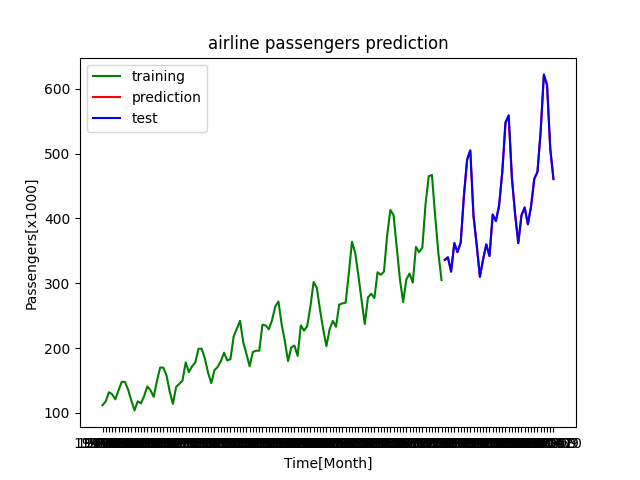
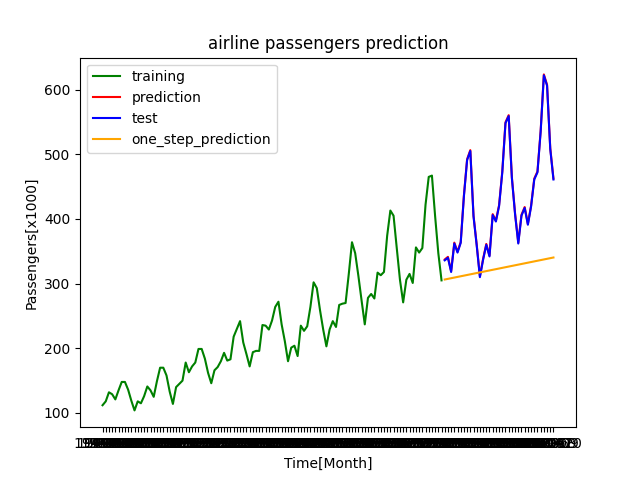
add one-step-ahead forecast

diff --git a/TimeSeriesPrediction/2_UnivariantTimeSeriesForecast/airline_passengers_forecasting_keras.py b/TimeSeriesPrediction/2_UnivariantTimeSeriesForecast/airline_passengers_forecasting_keras.py
@@ -34,11 +34,21 @@ model.fit(train.loc[:, "Passengers"], train.loc[:, "Passengers+1"], epochs=25, b
 
 predictions = model.predict(test.loc[:, "Passengers"])
 test["Predictions"] = predictions
+
+current_value = train.iloc[-1:, 1]
+one_step_ahead_forecast = list()
+for element in range(0, len(test)):
+    prediction = model.predict([current_value])
+    one_step_ahead_forecast.append(prediction[0][0])
+    current_value = prediction[0]
+test["one_step_prediction"] = one_step_ahead_forecast
+
 test.to_csv("./AirlinePassengersResultsKeras.csv")
 
 plt.plot(train["Month"], train["Passengers"], color="green", label="training")
 plt.plot(test["Month"], test["Predictions"], color="red", label="prediction")
 plt.plot(test["Month"], test["Passengers"], color="blue", label="test")
+plt.plot(test["Month"], test["one_step_prediction"], color="orange", label="one_step_prediction")
 plt.title("airline passengers prediction")
 plt.xlabel("Time[Month]")
 plt.ylabel("Passengers[x1000]")
